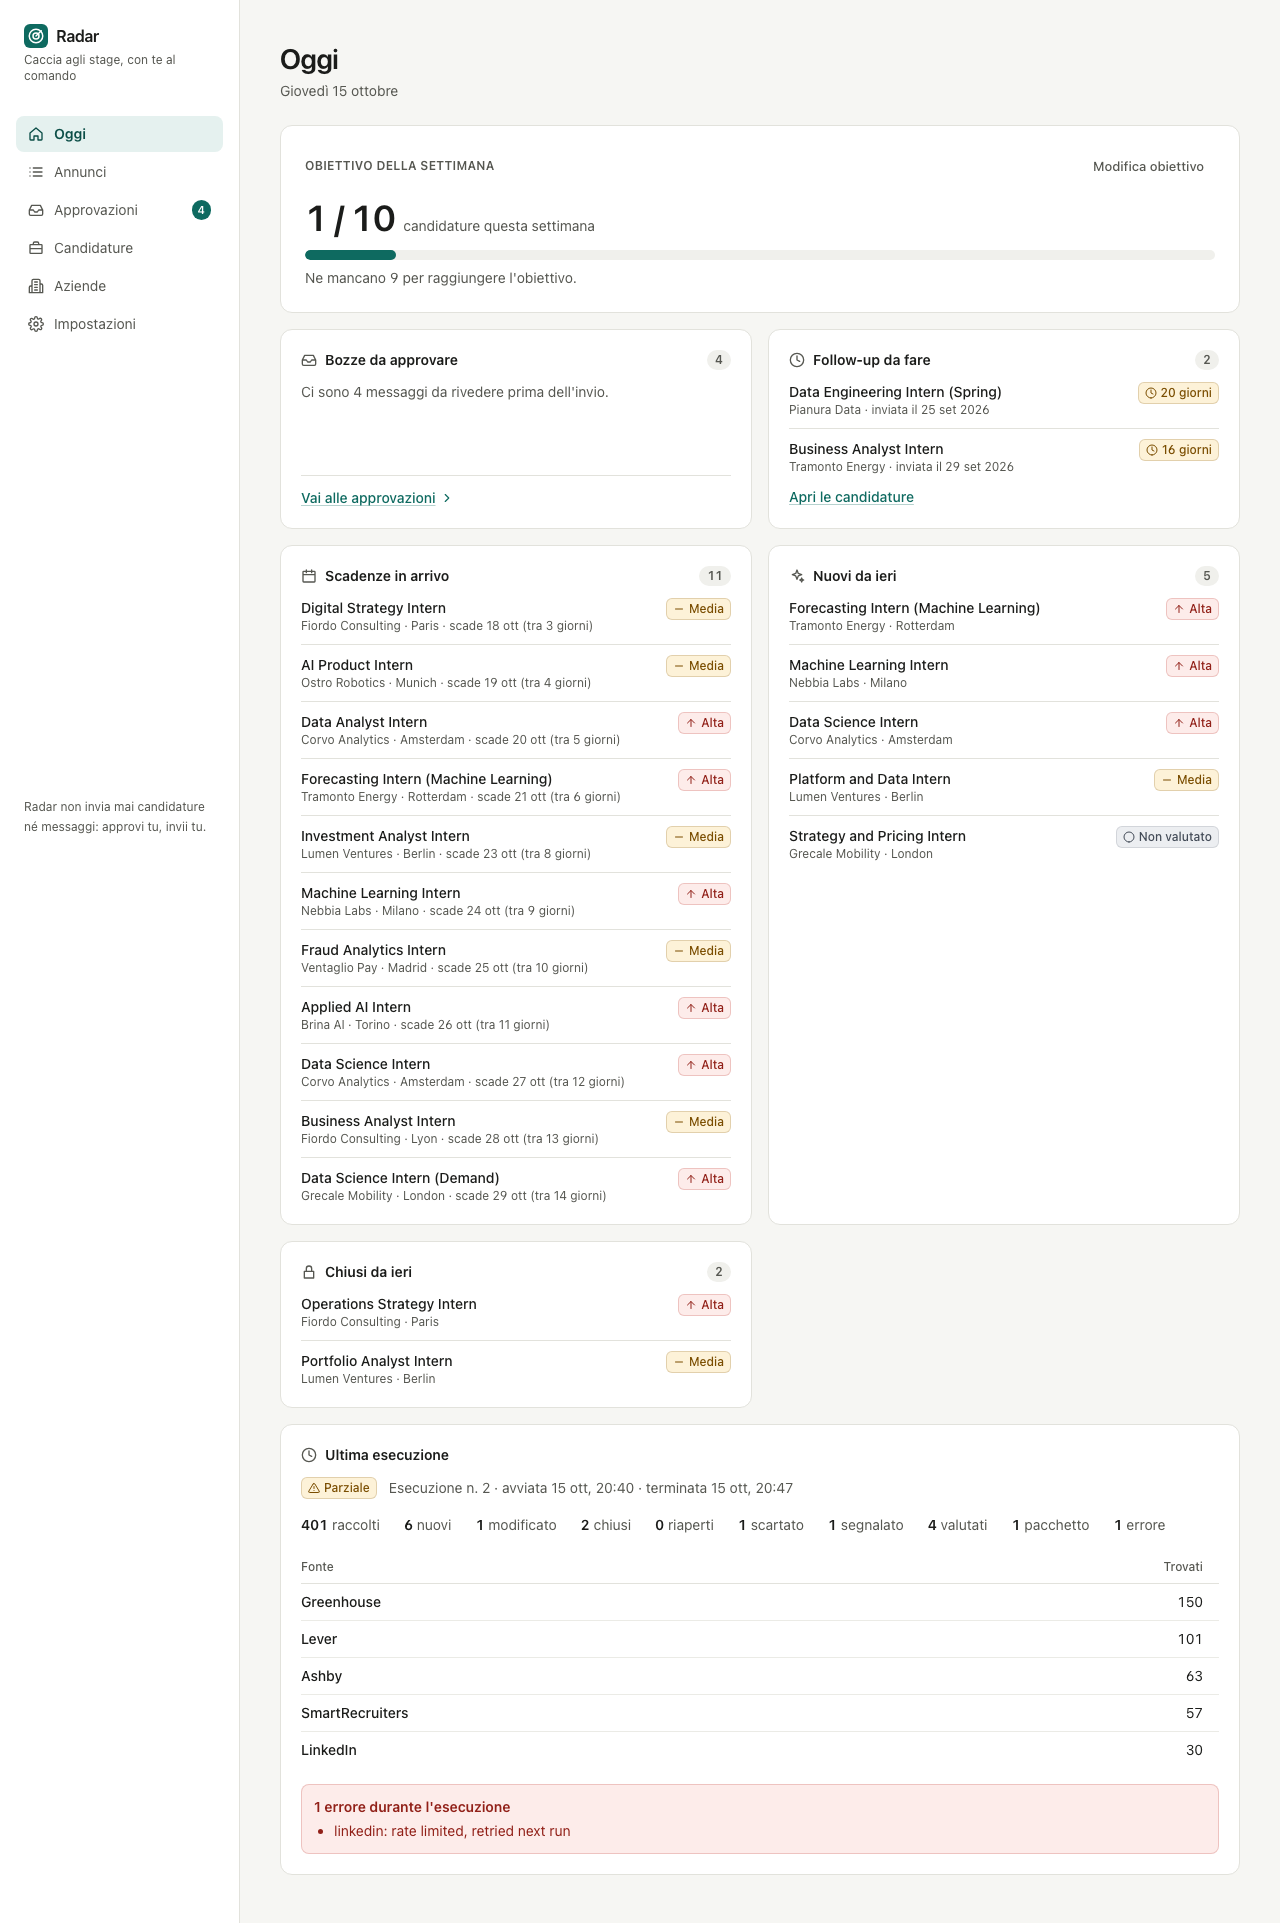
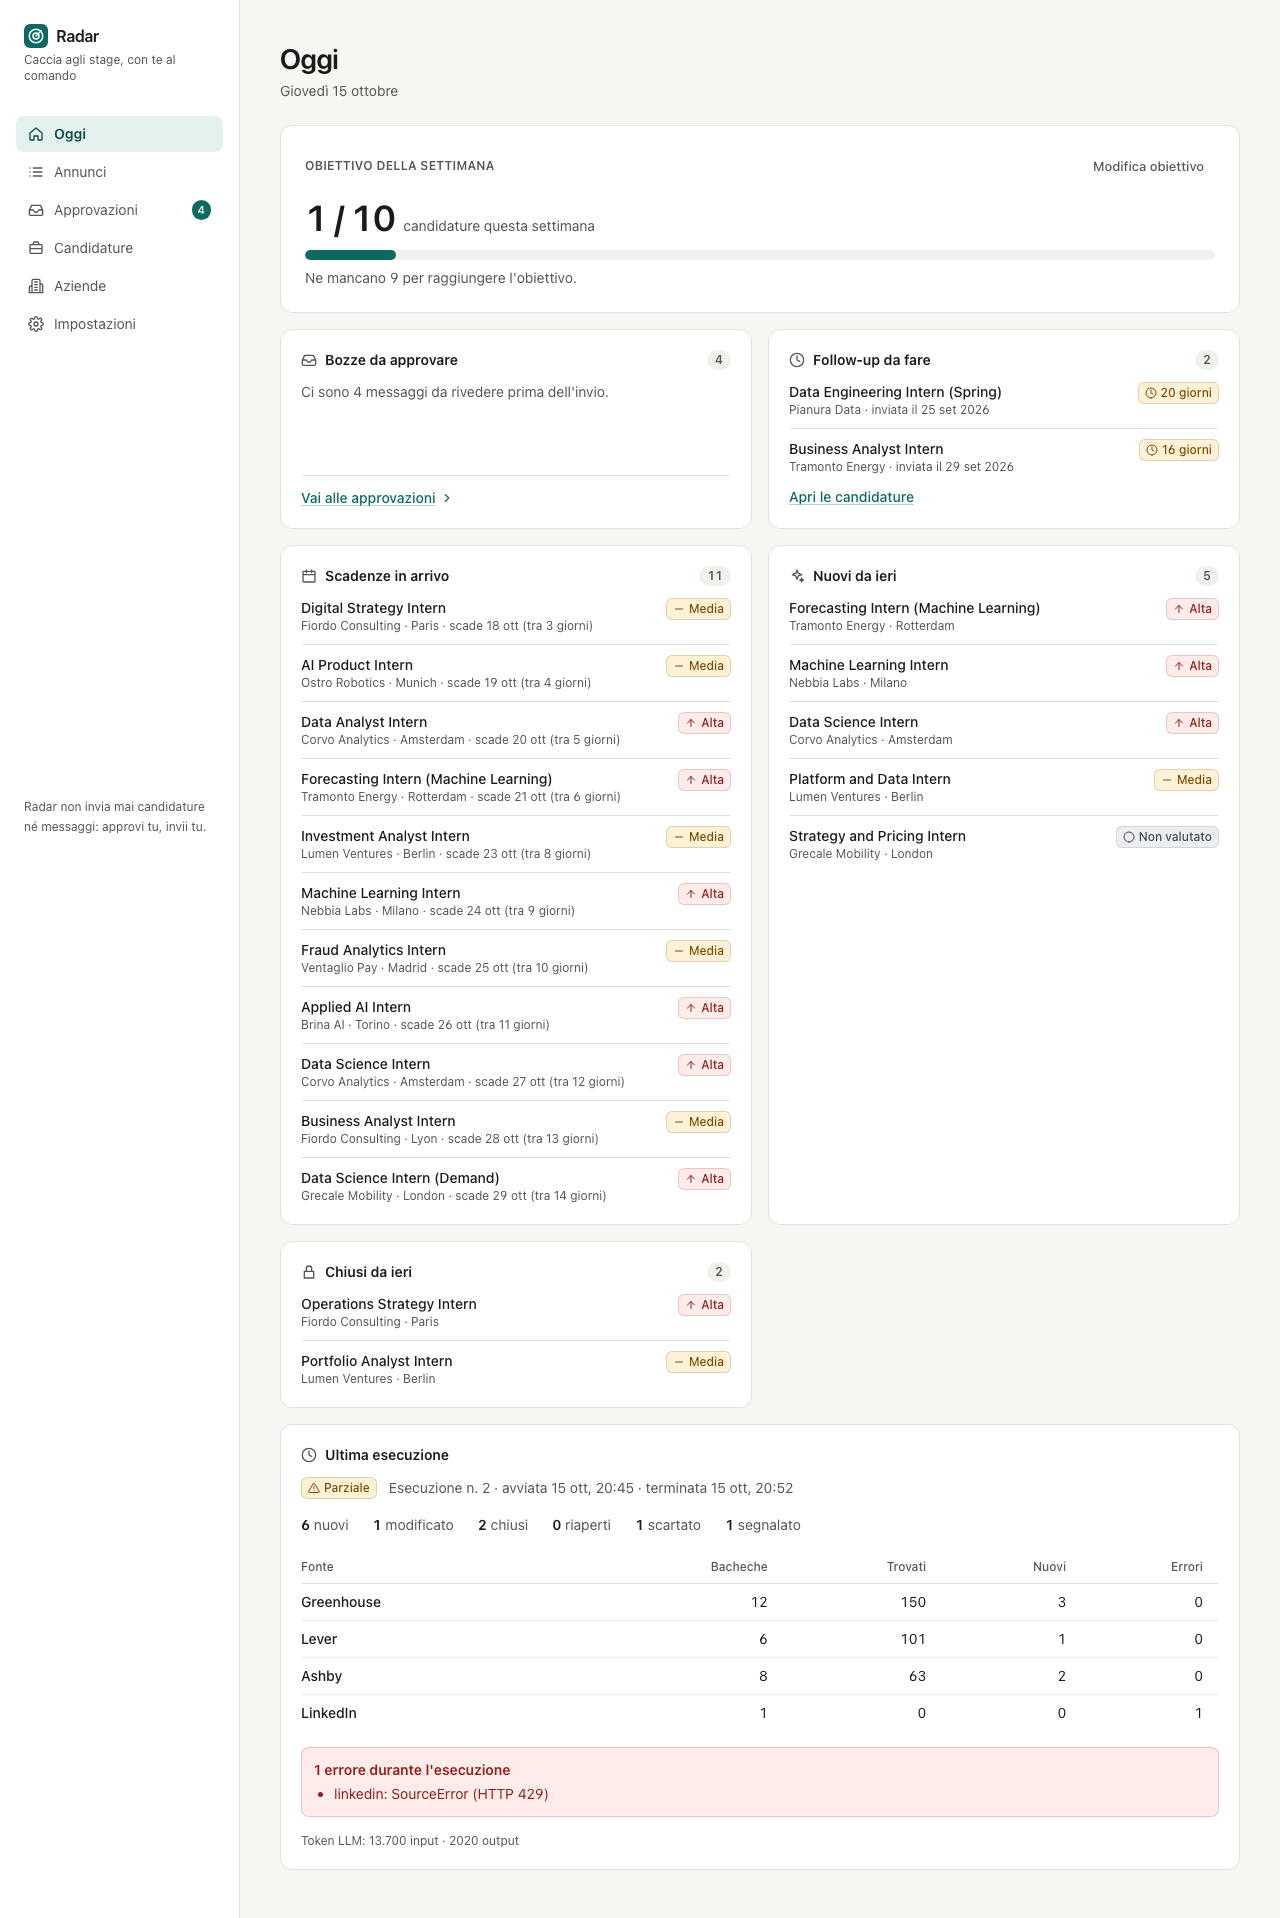
fix(frontend): run summary uses the pipeline stats shape only; refresh Oggi screenshot

diff --git a/frontend/src/components/RunSummaryView.tsx b/frontend/src/components/RunSummaryView.tsx
@@ -70,20 +70,13 @@ export function parseRunStats(stats: Record<string, unknown> | null): ParsedStat
   const out: ParsedStats = { sources: [], errors: [], tokens: [], totals: [] };
   if (!stats) return out;
   for (const [key, value] of Object.entries(stats)) {
-    if ((key === "sources" || key === "per_source" || key === "by_source") && isObj(value)) {
+    if (key === "sources" && isObj(value)) {
       for (const [name, counts] of Object.entries(value)) {
         if (isObj(counts)) {
           const nums = Object.fromEntries(Object.entries(counts).filter(([, n]) => typeof n === "number")) as Record<string, number>;
           out.sources.push({ name, counts: nums });
-          if (Array.isArray(counts.errors)) counts.errors.forEach((e) => out.errors.push(`${name}: ${String(e)}`));
-          else if (typeof counts.error === "string") out.errors.push(`${name}: ${counts.error}`);
-        } else if (typeof counts === "number") {
-          out.sources.push({ name, counts: { trovati: counts } });
         }
       }
-    } else if (key === "source_errors" && isObj(value)) {
-      // Demo shape: { source: "message" }
-      Object.entries(value).forEach(([src, msg]) => out.errors.push(`${src}: ${String(msg)}`));
     } else if (key === "errors" && Array.isArray(value)) {
       value.forEach((e) => {
         if (!isObj(e)) return out.errors.push(String(e));
@@ -101,10 +94,6 @@ export function parseRunStats(stats: Record<string, unknown> | null): ParsedStat
       }
       if (input || output) out.tokens.push({ label: "input", value: input }, { label: "output", value: output });
       if (typeof value.skipped === "string") out.llmSkipped = value.skipped;
-    } else if (/token/i.test(key)) {
-      if (typeof value === "number") out.tokens.push({ label: "totale", value });
-      else if (isObj(value))
-        Object.entries(value).forEach(([k, v]) => typeof v === "number" && out.tokens.push({ label: k === "input" ? "input" : k === "output" ? "output" : k, value: v }));
     } else if (typeof value === "number") {
       out.totals.push({ label: countLabel(key), value });
     }
